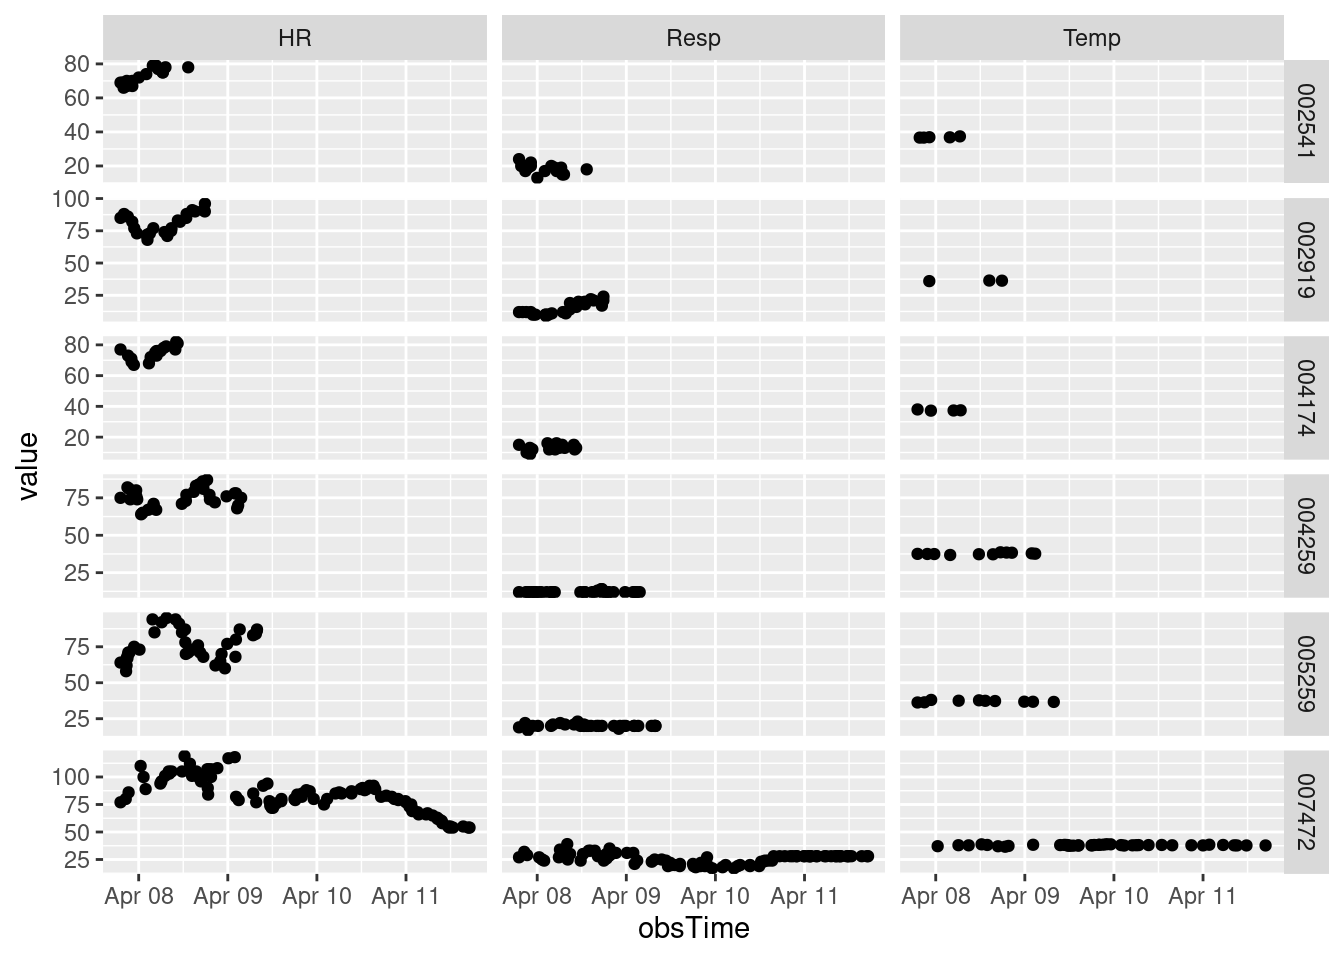
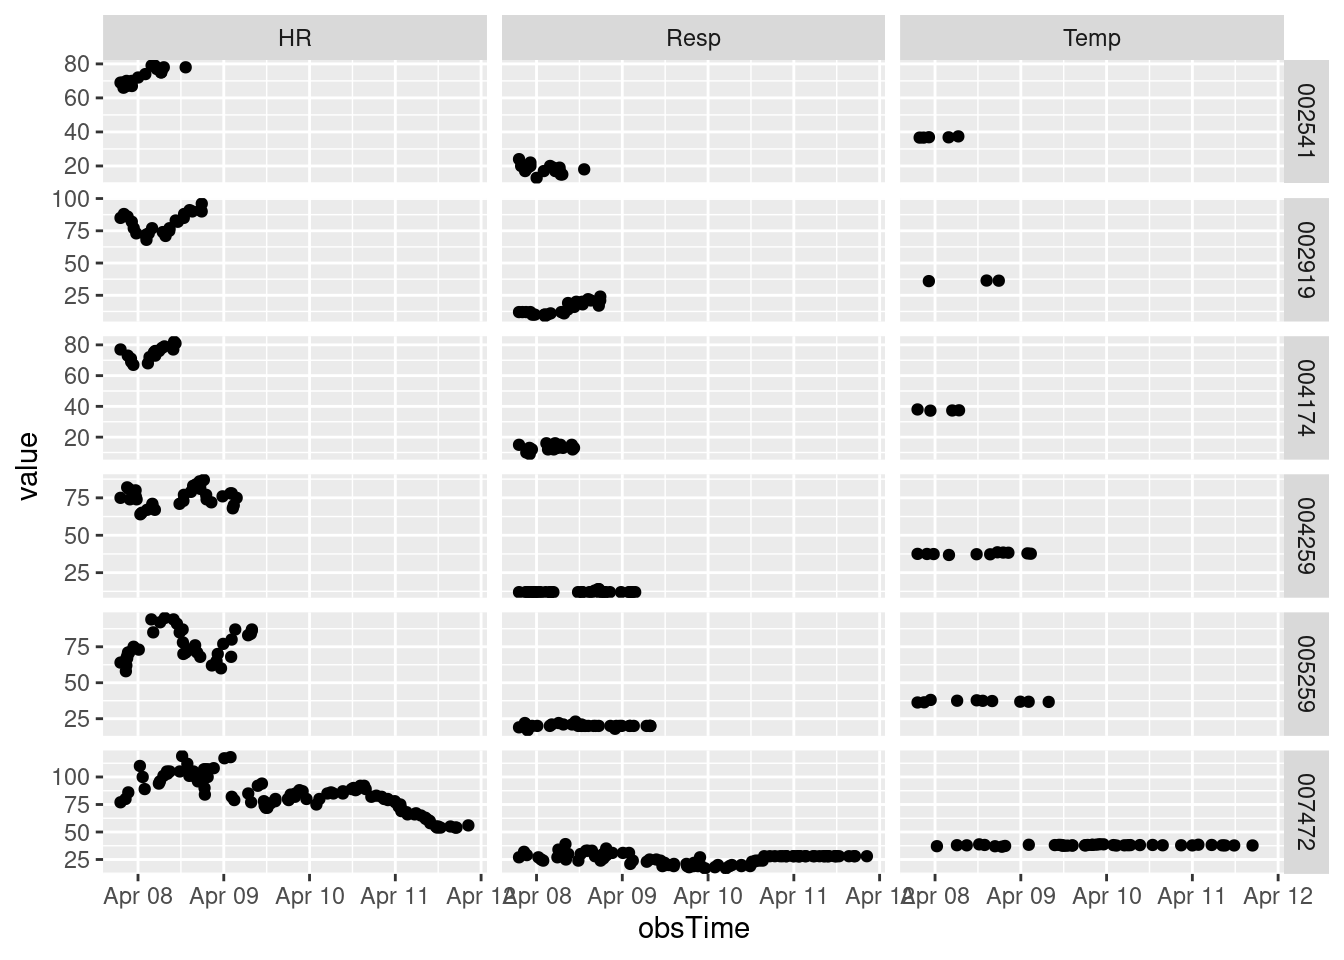
Updated data and report

diff --git a/sepsis.html b/sepsis.html
@@ -140,7 +140,7 @@ code span.wa { color: #60a0b0; font-weight: bold; font-style: italic; } /* Warni
 
 </header>
 
-<p>Last updated: 2023-04-11 20:10:56</p>
+<p>Last updated: 2023-04-11 21:09:04</p>
 <div class="cell">
 <div class="sourceCode cell-code" id="cb1"><pre class="sourceCode r code-with-copy"><code class="sourceCode r"><span id="cb1-1"><a href="#cb1-1" aria-hidden="true" tabindex="-1"></a><span class="co"># Set up </span></span>
 <span id="cb1-2"><a href="#cb1-2" aria-hidden="true" tabindex="-1"></a><span class="fu">library</span>(tidyverse)</span>
@@ -175,8 +175,8 @@ code span.wa { color: #60a0b0; font-weight: bold; font-style: italic; } /* Warni
 <span id="cb2-5"><a href="#cb2-5" aria-hidden="true" tabindex="-1"></a>current_sepsis_pts <span class="sc">%&gt;%</span> <span class="fu">datatable</span>()</span></code><button title="Copy to Clipboard" class="code-copy-button"><i class="bi"></i></button></pre></div>
 <div class="cell-output-display">
 
-<div class="datatables html-widget html-fill-item-overflow-hidden html-fill-item" id="htmlwidget-fb27affa45daadc8cacb" style="width:100%;height:auto;"></div>
-<script type="application/json" data-for="htmlwidget-fb27affa45daadc8cacb">{"x":{"filter":"none","vertical":false,"data":[["1","2","3","4","5","6"],["002541","002919","004174","004259","005259","007472"],[78,96,81,75,87,54],[null,36.33,null,null,null,null],[18,24,13,12,20,28]],"container":"<table class=\"display\">\n  <thead>\n    <tr>\n      <th> <\/th>\n      <th>PatientID<\/th>\n      <th>HR<\/th>\n      <th>Temp<\/th>\n      <th>Resp<\/th>\n    <\/tr>\n  <\/thead>\n<\/table>","options":{"columnDefs":[{"className":"dt-right","targets":[2,3,4]},{"orderable":false,"targets":0}],"order":[],"autoWidth":false,"orderClasses":false}},"evals":[],"jsHooks":[]}</script>
+<div class="datatables html-widget html-fill-item-overflow-hidden html-fill-item" id="htmlwidget-c17604bf0ac3d3fd7f74" style="width:100%;height:auto;"></div>
+<script type="application/json" data-for="htmlwidget-c17604bf0ac3d3fd7f74">{"x":{"filter":"none","vertical":false,"data":[["1","2","3","4","5","6"],["002541","002919","004174","004259","005259","007472"],[78,96,81,75,87,null],[null,36.33,null,null,null,null],[18,24,13,12,20,null]],"container":"<table class=\"display\">\n  <thead>\n    <tr>\n      <th> <\/th>\n      <th>PatientID<\/th>\n      <th>HR<\/th>\n      <th>Temp<\/th>\n      <th>Resp<\/th>\n    <\/tr>\n  <\/thead>\n<\/table>","options":{"columnDefs":[{"className":"dt-right","targets":[2,3,4]},{"orderable":false,"targets":0}],"order":[],"autoWidth":false,"orderClasses":false}},"evals":[],"jsHooks":[]}</script>
 </div>
 </div>
 </section>
@@ -216,8 +216,8 @@ code span.wa { color: #60a0b0; font-weight: bold; font-style: italic; } /* Warni
 <span id="cb4-13"><a href="#cb4-13" aria-hidden="true" tabindex="-1"></a>phys_var_diff <span class="sc">%&gt;%</span> <span class="fu">datatable</span>()</span></code><button title="Copy to Clipboard" class="code-copy-button"><i class="bi"></i></button></pre></div>
 <div class="cell-output-display">
 
-<div class="datatables html-widget html-fill-item-overflow-hidden html-fill-item" id="htmlwidget-0e89200fdcfa7cb9bd8d" style="width:100%;height:auto;"></div>
-<script type="application/json" data-for="htmlwidget-0e89200fdcfa7cb9bd8d">{"x":{"filter":"none","vertical":false,"data":[["1","2","3","4","5","6","7","8","9","10","11","12","13","14","15","16","17","18","19","20","21","22","23","24","25","26","27","28","29","30","31","32","33","34","35","36","37","38","39","40","41","42","43","44","45","46","47","48","49","50"],["000433","000606","000706","000855","001027","001361","001514","001569","001933","002135","002347","002402","002458","002541","002566","002866","002919","002997","003432","003678","003724","003890","004009","004174","004257","004259","004388","004616","004688","004696","004932","005120","005259","005596","005781","005995","006559","006840","007472","007484","007568","007621","007905","008039","008047","008418","008424","008816","009192","009339"],[null,-6,null,-24,0,-9,-11,-8,9,null,3,-2,null,0,9,null,6,null,3,0,1,6,9,-1,null,5,-7,6,2,4,1,-14,1,null,-1,null,-7,5,0,3,null,null,null,-2,0,16,0,null,null,-1],[null,null,null,null,null,null,null,null,null,null,null,null,null,null,null,null,null,null,null,null,null,null,null,null,null,null,null,null,null,null,null,null,null,null,null,null,null,null,null,null,null,null,null,null,null,null,null,null,null,null],[null,-5,null,-4,-1,-6,5,-5,2,null,-4,-1,null,3,2,null,3,null,-1,1,-5,4,null,1,null,0,7,-2,-6,-2,3,1,0,null,-1,null,-1,7,0,-3,null,null,null,2,null,-2,1,null,null,0]],"container":"<table class=\"display\">\n  <thead>\n    <tr>\n      <th> <\/th>\n      <th>PatientID<\/th>\n      <th>delta_HR<\/th>\n      <th>delta_Temp<\/th>\n      <th>delta_Resp<\/th>\n    <\/tr>\n  <\/thead>\n<\/table>","options":{"columnDefs":[{"className":"dt-right","targets":[2,3,4]},{"orderable":false,"targets":0}],"order":[],"autoWidth":false,"orderClasses":false}},"evals":[],"jsHooks":[]}</script>
+<div class="datatables html-widget html-fill-item-overflow-hidden html-fill-item" id="htmlwidget-5a904ceaebba5a5af206" style="width:100%;height:auto;"></div>
+<script type="application/json" data-for="htmlwidget-5a904ceaebba5a5af206">{"x":{"filter":"none","vertical":false,"data":[["1","2","3","4","5","6","7","8","9","10","11","12","13","14","15","16","17","18","19","20","21","22","23","24","25","26","27","28","29","30","31","32","33","34","35","36","37","38","39","40","41","42","43","44","45","46","47","48","49","50"],["000433","000606","000706","000855","001027","001361","001514","001569","001933","002135","002347","002402","002458","002541","002566","002866","002919","002997","003432","003678","003724","003890","004009","004174","004257","004259","004388","004616","004688","004696","004932","005120","005259","005596","005781","005995","006559","006840","007472","007484","007568","007621","007905","008039","008047","008418","008424","008816","009192","009339"],[null,-6,null,-24,0,-9,-11,-8,9,null,3,-2,null,0,9,null,6,null,3,0,1,6,9,-1,null,5,-7,6,2,4,1,-14,1,null,-1,null,-7,5,null,3,null,null,null,-2,0,16,0,null,null,-1],[null,null,null,null,null,null,null,null,null,null,null,null,null,null,null,null,null,null,null,null,null,null,null,null,null,null,null,null,null,null,null,null,null,null,null,null,null,null,null,null,null,null,null,null,null,null,null,null,null,null],[null,-5,null,-4,-1,-6,5,-5,2,null,-4,-1,null,3,2,null,3,null,-1,1,-5,4,null,1,null,0,7,-2,-6,-2,3,1,0,null,-1,null,-1,7,null,-3,null,null,null,2,null,-2,1,null,null,0]],"container":"<table class=\"display\">\n  <thead>\n    <tr>\n      <th> <\/th>\n      <th>PatientID<\/th>\n      <th>delta_HR<\/th>\n      <th>delta_Temp<\/th>\n      <th>delta_Resp<\/th>\n    <\/tr>\n  <\/thead>\n<\/table>","options":{"columnDefs":[{"className":"dt-right","targets":[2,3,4]},{"orderable":false,"targets":0}],"order":[],"autoWidth":false,"orderClasses":false}},"evals":[],"jsHooks":[]}</script>
 </div>
 </div>
 </section>
